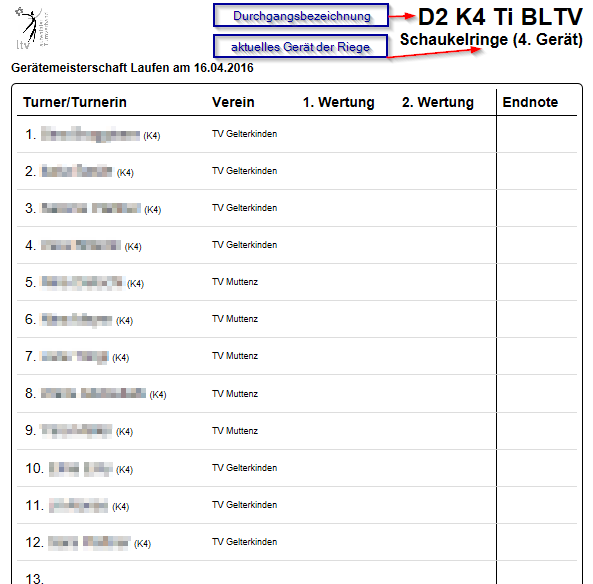
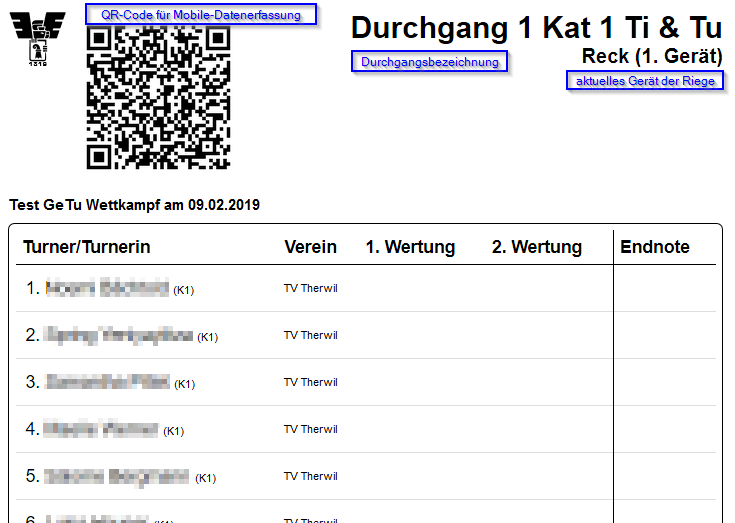
update descriptions and screenshots for the adapted network-features

diff --git a/wettkampf-durchfuhrung/wettkampf-netzwerk.md b/wettkampf-durchfuhrung/wettkampf-netzwerk.md
@@ -32,23 +32,22 @@ Gleichzeitig wird der Button `Verbindung stoppen` wählbar.
 Für eine schnelle Kontrolle dient der Status-Button oben rechts im Fenster. Mit der Status-Lampe wird mit `grün` eine aktive und mit `grau` eine nicht aktive Verbindung angezeigt. Die Verbindung kann auch über diesen Status-Button ein- und ausgeschaltet werden.<br>
 
 3. Weitere Interessierte können sich mit der Funktion `Wettkampf herunterladen` den kompletten Wettkampf über das Netzwerk herunterladen:<br>![](/assets/download-competitions.png)<br> ![](/assets/list-download-competitions.png)<br>
-Nachdem ein Wettkampf heruntergeladen wurde, kann zwar lokal alles mit dem Wettkampf gemacht werden. Allerdings kann man sich nicht zu dem Wettkampf im Netzwerk verbinden und es können auch keine Daten mit dem Wettkampf im Netzwerk synchronisiert werden. Hierzu muss zunächst die volle Kontrolle über den Wettkampf erlangt werden.<br>
-Es gibt zwei mögliche Verfahren, um die volle Kontrolle über den Wettkampf von einem Gerät auf das Andere zu übertragen:
-    * Vom Gerät, auf dem der Wettkampf hochgeladen wurde, muss der Wettkampf wie bisher via `Import-`/`Export`-Funktion als Zip-Datei auf das zusätzliche Gerät kopiert werden. Die Datei enthält den Sicherheits-Schlüssel für den Vollzugriff auf diesen Wettkampf:<br>
+Nachdem ein Wettkampf heruntergeladen wurde, können daran noch keine Änderungen gemacht werden. Man kann sich allerdings zu dem Wettkampf im Netzwerk verbinden und aktualisierte Resultate werden auf die lokale Kopie gemeldet. Um die volle Kontrolle über den Wettkampf von einem Gerät auf das Andere zu übertragen muss vom Gerät, auf dem der Wettkampf hochgeladen wurde, der Wettkampf wie bisher via `Import-`/`Export`-Funktion als Zip-Datei auf das zusätzliche Gerät kopiert werden. Die Datei enthält den Sicherheits-Schlüssel für den Vollzugriff auf diesen Wettkampf:<br>
     ![](/assets/competition-share-secret.png)<br> Diese Datei ist für den Benutzer **unsichtbar**. Mit diesem Vorgehen können mehrere Geräte die volle Kontrolle über den Wettkampf erlangen.
     * Nachdem der Wettkampf auf dem Ziel-Gerät heruntergeladen wurde, kann vom Gerät, wo er hochgeladen wurde der Wettkampf im Netzwerk entfernt werden (siehe [Wettkampf im Netzwerk entfernen](#wettkampfnetzwerk-entfernen)). Daraufhin kann der Wettkampf vom Ziel-Gerät frisch in's Netzwerk hochgeladen werden. Die Kontrolle des Wettkampfs liegt immer bei dem Gerät, von wo aus ein Wettkampf hochgeladen wurde. Mit diesem Verfahren liegt die volle Kontrolle über den Wettkampf immer nur bei einem Gerät.
 4. Solange eine aktive Verbindung besteht, werden die Resultate über den zentralen Server mit allen anderen an diesem Wettkampf verbundenen Stationen synchronisiert. So ist es denn auch möglich, mit mehr als einer Station im Rechnungsbüro zu arbeiten, um so die Ausfallsicherheit zu erhöhen.
 
-### Pro Gerät und Durchgang einen QR-Code für die Einstellung im Mobile-Device der Wertungsrichter erstellen {#qrcode-printouts}
+### Riegenblätter mit QR-Code für Direkteinstieg in die Erfassungs-Maske der Mobile-App drucken {#qrcode-printouts}
 
-Bevor der Wettkampf beginnt, sollten pro Gerät eine Liste der QR-Codes erstellt werden, die die Konfiguration des Mobile-Devices der Wertungsrichter sicherstellt.
+![](/assets/print-riegenblaetter.png)
 
-![](/assets/prepare-station-qrcodes.png)
+**Generiertes Riegennotenblatt:**
 
-![](/assets/station-initialization-qrcode.png)
+![](/assets/riegenblaetter.png)
 
-Diese QR-Codes sind lediglich für einen sicheren Einstieg zu den relevanten Wertungs-Eingabemasken gedacht und stellen kein Sicherheitselement bezüglich Zugriffsberechtigung dar. Sie können deshalb problemlos auf dem Wettkampf-Platz offen auf den Tischen der Wertungsrichter aufgelegt werden. Auch ein Versand per EMail an die Wertungsrichter wäre unproblematisch.
+**Achtung** Der auf den Riegenblätter gedruckte QR-Code enthält den Link auf den `zentralen Server` und funktioniert nicht mit dem anderen Netzwerk-Modus, wo der Server lokal betrieben wird.
 
+Diese QR-Codes sind lediglich für einen sicheren Einstieg zu den relevanten Wertungs-Eingabemasken gedacht und stellen kein Sicherheitselement bezüglich Zugriffsberechtigung dar. Sie können deshalb problemlos auf dem Wettkampf-Platz offen auf den Tischen der Wertungsrichter aufgelegt werden.
 
 ### Mobile App Connections ...
 
@@ -74,11 +73,11 @@ Siehe ![Aktuelle Wettkampf Resultate anzeigen](#letzteResultate)
 Dieser QR-Code führt mit einem Link auf die Anzeige der aktuell erfassten Top-Resultaten.
 Siehe ![Letzte Top Resultate anzeigen](#topResultate)
 
-### Wertungsrichter initialisiert sein Mobile-Device an seiner Station mit QR-Code
+### Wertungsrichter initialisiert sein Mobile-Device an seiner Station mit dem [QR-Code vom Riegenblatt](#qrcode-printouts)
 
-Bei jedem Gerät sollen die [QR-Codes ausgedruckt vorliegen](#qrcode-printouts), die an dem Gerät pro Durchgang verwendet werden sollen. Mit dem Scan des jeweiligen QR-Codes kann eine URL im Browser des Mobile-Devices geöffnet werden. Dort wird die Erfassungs-App genau an der Stelle gestartet, wo der Wertungsrichter die Resultate erfassen soll (beim richtigen Wettkampf, beim richtigen Gerät und beim richtigen Durchgang).
+Auf den Riegenblätter zur manuellen Resultaterfassung, befindet sich jeweils ein QR-Code, mit welchem die Mobile-App direkt am richtigen Ort gestartet werden kann. Zu Beginn kann es sein, dass die Resultaterfassung noch gesperrt ist. Diese wird durch die Wettkampfleitung im Rechnungsbüro freigegeben.
 
-![](/assets/resultcatcher-initialized.png)
+![](/assets/resultaterfassen-gesperrt.png)
 
 ### Freischalten eines Durchganges für die Resultat-Erfassung über das Netzwerk
 
@@ -92,7 +91,25 @@ In der Ansicht wird dann die Startzeit eingetragen und die Resultat-Erfassung ü
 
 ![](/assets/resultcatcher-running.png)
 
-Wenn alle Resultate einer Riege an einem Gerät erfasst sind, soll die Resultaterfassung für diese Riege an diesem Gerät abgeschlossen werden. Dies wird mittels `Eingabe abschliessen` gemacht und bewirkt zusätzlich, dass die nächste Riege für die Resultaterfassung geladen wird.
+### Wertungsrichter erfasst Wettkampf-Resultate
+
+Mit dem Button `RESULTATE` gelangt man in der Mobile-App zu den Turner/-Innen, die in der Reihenfolge aufgelistet werden, in der sie ihre Wettkampf-Übung vorturnen sollen.
+
+<table><tr><td  valign="top"> 
+Mit einem Click auf die Person öffnet sich die Noten-Eingabemaske.<br>
+<br>
+</td><td valign="top"><img src="../assets/resultaterfassen-gestartet2.png"> </td></tr>
+<tr><td valign="top"><p>
+Bei Kunstturn-Wettkämpfen kann hier auch eine D-Note erfasst werden.</p><p>
+Mit einem Click auf die E-Note (1) kann die entsprechene Ausführungs-Note (E wie Execution) erfasst/korrigiert werden.</p><p>
+Die Endnote wird beim `Speichern` oder beim `Speichern & Weiter` (2) vom Programm berechnet und aktualisiert, wenn die Aktion erfolgreich ausgeführt werden kann. Wenn z.B. die Berechtigung für die Resultat-Erfassung abgelaufen ist oder der Durchgang gerade gesperrt ist, können keine Resultate erfasst/korrigiert werden. Bei Athletiktests gibt es verschiedene Multiplikationsfaktoren, die mit der E-Note multipliziert die Endnote ausmachen. Bei Kunstturn-Wettkämpfen wird die D-Note und die E-Note zusammengezählt.</p><p>
+<em>Achtung</em> Wenn die Nummer-Eingabetastatur, die für die Eingabe der Wertung eingeblendet wird, die Buttons überdeckt, muss für dessen Betätigung der Bildschirm nach oben gescrollt werden, so dass die Buttons wieder sichtbar werden.
+</td><td><img src="../assets/resultcatcher-wertung-erfassen.png"></td></tr>
+</table>
+
+Wenn alle Resultate einer Riege an einem Gerät erfasst sind, soll die Resultaterfassung für diese Riege an diesem Gerät abgeschlossen werden. Dies wird mittels `Eingaben abschliessen` gemacht und bewirkt zusätzlich, dass die nächste Riege für die Resultaterfassung geladen wird.
+
+### Durchgang abschliessen
 
 Wenn alle Resultate eines Durchganges erfasst sind, soll der `Durchgang abgeschlossen` werden, worauf keine weiteren Resultate via Mobile-Devices mehr engegengenommen werden.
 
@@ -103,18 +120,6 @@ Wenn alle Resultate eines Durchganges erfasst sind, soll der `Durchgang abgeschl
 ![](/assets/resultaterfassen-gesperrt.png)
 
 Die Aktionen zum starten und beenden sind als Popup-Menu Funtkionen auf dem jeweiligen Durchgang zugänglich und sind nur dann wählbar, wenn der Netzwerk-Modus eingeschaltet ist.
-
-### Wertungsrichter erfasst Wettkampf-Resultate
-
-Mit dem Button `RESULTATE` gelangt man in der Mobile-App zu den Turner/-Innen, die in der Reihenfolge aufgelistet werden, in der sie ihre Wettkampf-Übung vorturnen sollen.
-
-1. Mit einem Click auf die Person öffnet sich die Noten-Eingabemaske.
-2. Mit einem Click auf die D-Note kann die entsprechene Schwierigkeits-Note (D wie Difficulty) erfasst/korrigiert werden. Diese Note wird nur bei Kunstturn-Wettkämpfen verwendet. Beim Geräteturnen wird nur die E-Note erfasst.
-3. Mit einem Click auf die E-Note kann die entsprechene Ausführungs-Note (E wie Execution) erfasst/korrigiert werden.
-4. Die Endnote wird vom Programm berechnet und aktualisiert, wenn die `Save`-Aktion erfolgreich ausgeführt werden kann. Wenn z.B. die Berechtigung für die Resultat-Erfassung abgelaufen ist oder der Durchgang gerade gesperrt ist, können keine Resultate erfasst/korrigiert werden. Bei Athletiktests gibt es verschiedene Multiplikationsfaktoren, die mit der E-Note multipliziert die Endnote ausmachen. Bei Kunstturn-Wettkämpfen wird die D-Note und die E-Note zusammengezählt.
-
-![](/assets/resultcatcher-results.png)
-
 
 ### Aktuelle Wettkampf Resultate anzeigen {#letzteResultate}
 

diff --git a/wettkampf-durchfuhrung/wettkampf-netzwerk-lokal.md b/wettkampf-durchfuhrung/wettkampf-netzwerk-lokal.md
@@ -33,19 +33,21 @@ Für den Betrieb über das Netzwerk sind folgende Sicherheitsmassnahmen getroffe
 Bei diesem Arbeitsschritt, wird nach erfolgreichem bereitstellen eine Erfolgsmeldung angezeigt:<br>![](/assets/connect-and-share.png)<br>
 Gleichzeitig wird der Button `Verbindung stoppen` wählbar.
 Für eine schnelle Kontrolle dient der Status-Button oben rechts im Fenster. Mit der Status-Lampe wird mit `grün` eine aktive und mit `grau` eine nicht aktive Verbindung angezeigt. Die Verbindung kann auch über diesen Status-Button ein- und ausgeschaltet werden.<br>
-3. Solange eine aktive Verbindung besteht, werden die Resultate über den zentralen Server mit allen anderen an diesem Wettkampf verbundenen Stationen synchronisiert. Im Gegensatz zur Verbindung über das Internet ist es nicht möglich, mit mehr als einer Station im Rechnungsbüro zu arbeiten.
+3. Solange eine aktive Verbindung besteht, werden die Resultate über den lokalen Server mit allen anderen an diesem Wettkampf verbundenen Stationen synchronisiert. Im Gegensatz zur Verbindung über das Internet ist es nicht möglich, mit mehr als einer Station im Rechnungsbüro zu arbeiten.
 4. Mittels `Stop local Server` im Netzwerk-Menu wir der Server im lokalen Netzwer wieder gestoppt.<br>![](/assets/stop-local-server.png)<br>Sobald der Server gestoppt ist, wird die Adresse im blauen Anzeigefeld oben rechts auf `kutuapp.sharevic.net` umgestellt.<br>![](/assets/display-remote-server-offline.png)<br>
 Diese Adresse wird verwendet, wenn der Netzwerkmodus über das Internet betrieben wird.
 
-### Pro Gerät und Durchgang einen QR-Code für die Einstellung im Mobile-Device der Wertungsrichter erstellen {#qrcode-printouts}
+### Riegenblätter mit QR-Code für Direkteinstieg in die Erfassungs-Maske der Mobile-App drucken {#qrcode-printouts}
 
-Bevor der Wettkampf beginnt, sollten pro Gerät eine Liste der QR-Codes erstellt werden, die die Konfiguration des Mobile-Devices der Wertungsrichter sicherstellt.
+![](/assets/print-riegenblaetter.png)
 
-![](/assets/prepare-station-qrcodes.png)
+**Generiertes Riegennotenblatt:**
 
-![](/assets/station-initialization-qrcode.png)
+![](/assets/riegenblaetter.png)
 
-Diese QR-Codes sind lediglich für einen sicheren Einstieg zu den relevanten Wertungs-Eingabemasken gedacht und stellen kein Sicherheitselement bezüglich Zugriffsberechtigung dar. Sie können deshalb problemlos auf dem Wettkampf-Platz offen auf den Tischen der Wertungsrichter aufgelegt werden. Auch ein Versand per EMail an die Wertungsrichter wäre unproblematisch.
+**Achtung** Der auf den Riegenblätter gedruckte QR-Code enthält den Link auf den `lokalen Server` und funktioniert nicht im anderen Netzwerk-Modus, wo der Server nicht lokal betrieben wird.
+
+Diese QR-Codes sind lediglich für einen sicheren Einstieg zu den relevanten Wertungs-Eingabemasken gedacht und stellen kein Sicherheitselement bezüglich Zugriffsberechtigung dar. Sie können deshalb problemlos auf dem Wettkampf-Platz offen auf den Tischen der Wertungsrichter aufgelegt werden.
 
 ### Mobile App Connections ...
 
@@ -72,11 +74,11 @@ Siehe ![Aktuelle Wettkampf Resultate anzeigen](#letzteResultate)
 Dieser QR-Code führt mit einem Link auf die Anzeige der aktuell erfassten Top-Resultaten.
 Siehe ![Letzte Top Resultate anzeigen](#topResultate)
 
-### Wertungsrichter initialisiert sein Mobile-Device an seiner Station mit QR-Code
+### Wertungsrichter initialisiert sein Mobile-Device an seiner Station mit dem [QR-Code vom Riegenblatt](#qrcode-printouts)
 
-Bei jedem Gerät sollen die [QR-Codes ausgedruckt vorliegen](#qrcode-printouts), die an dem Gerät pro Durchgang verwendet werden sollen. Mit dem Scan des jeweiligen QR-Codes kann eine URL im Browser des Mobile-Devices geöffnet werden. Dort wird die Erfassungs-App genau an der Stelle gestartet, wo der Wertungsrichter die Resultate erfassen soll (beim richtigen Wettkampf, beim richtigen Gerät und beim richtigen Durchgang).
+Auf den Riegenblätter zur manuellen Resultaterfassung, befindet sich jeweils ein QR-Code, mit welchem die Mobile-App direkt am richtigen Ort gestartet werden kann. Zu Beginn kann es sein, dass die Resultaterfassung noch gesperrt ist. Diese wird durch die Wettkampfleitung im Rechnungsbüro freigegeben.
 
-![](/assets/resultcatcher-initialized.png)
+![](/assets/resultaterfassen-gesperrt.png)
 
 ### Freischalten eines Durchganges für die Resultat-Erfassung über das Netzwerk
 
@@ -90,7 +92,25 @@ In der Ansicht wird dann die Startzeit eingetragen und die Resultat-Erfassung ü
 
 ![](/assets/resultcatcher-running.png)
 
-Wenn alle Resultate einer Riege an einem Gerät erfasst sind, soll die Resultaterfassung für diese Riege an diesem Gerät abgeschlossen werden. Dies wird mittels `Eingabe abschliessen` gemacht und bewirkt zusätzlich, dass die nächste Riege für die Resultaterfassung geladen wird.
+### Wertungsrichter erfasst Wettkampf-Resultate
+
+Mit dem Button `RESULTATE` gelangt man in der Mobile-App zu den Turner/-Innen, die in der Reihenfolge aufgelistet werden, in der sie ihre Wettkampf-Übung vorturnen sollen.
+
+<table><tr><td  valign="top"> 
+Mit einem Click auf die Person öffnet sich die Noten-Eingabemaske.<br>
+<br>
+</td><td valign="top"><img src="../assets/resultaterfassen-gestartet2.png"> </td></tr>
+<tr><td valign="top"><p>
+Bei Kunstturn-Wettkämpfen kann hier auch eine D-Note erfasst werden.</p><p>
+Mit einem Click auf die E-Note (1) kann die entsprechene Ausführungs-Note (E wie Execution) erfasst/korrigiert werden.</p><p>
+Die Endnote wird beim `Speichern` oder beim `Speichern & Weiter` (2) vom Programm berechnet und aktualisiert, wenn die Aktion erfolgreich ausgeführt werden kann. Wenn z.B. die Berechtigung für die Resultat-Erfassung abgelaufen ist oder der Durchgang gerade gesperrt ist, können keine Resultate erfasst/korrigiert werden. Bei Athletiktests gibt es verschiedene Multiplikationsfaktoren, die mit der E-Note multipliziert die Endnote ausmachen. Bei Kunstturn-Wettkämpfen wird die D-Note und die E-Note zusammengezählt.</p><p>
+<em>Achtung</em> Wenn die Nummer-Eingabetastatur, die für die Eingabe der Wertung eingeblendet wird, die Buttons überdeckt, muss für dessen Betätigung der Bildschirm nach oben gescrollt werden, so dass die Buttons wieder sichtbar werden.
+</td><td><img src="../assets/resultcatcher-wertung-erfassen.png"></td></tr>
+</table>
+
+Wenn alle Resultate einer Riege an einem Gerät erfasst sind, soll die Resultaterfassung für diese Riege an diesem Gerät abgeschlossen werden. Dies wird mittels `Eingaben abschliessen` gemacht und bewirkt zusätzlich, dass die nächste Riege für die Resultaterfassung geladen wird.
+
+### Durchgang abschliessen
 
 Wenn alle Resultate eines Durchganges erfasst sind, soll der `Durchgang abgeschlossen` werden, worauf keine weiteren Resultate via Mobile-Devices mehr engegengenommen werden.
 
@@ -101,18 +121,6 @@ Wenn alle Resultate eines Durchganges erfasst sind, soll der `Durchgang abgeschl
 ![](/assets/resultaterfassen-gesperrt.png)
 
 Die Aktionen zum starten und beenden sind als Popup-Menu Funtkionen auf dem jeweiligen Durchgang zugänglich und sind nur dann wählbar, wenn der Netzwerk-Modus eingeschaltet ist.
-
-### Wertungsrichter erfasst Wettkampf-Resultate
-
-Mit dem Button `RESULTATE` gelangt man in der Mobile-App zu den Turner/-Innen, die in der Reihenfolge aufgelistet werden, in der sie ihre Wettkampf-Übung vorturnen sollen.
-
-1. Mit einem Click auf die Person öffnet sich die Noten-Eingabemaske.
-2. Mit einem Click auf die D-Note kann die entsprechene Schwierigkeits-Note (D wie Difficulty) erfasst/korrigiert werden. Diese Note wird nur bei Kunstturn-Wettkämpfen verwendet. Beim Geräteturnen wird nur die E-Note erfasst.
-3. Mit einem Click auf die E-Note kann die entsprechene Ausführungs-Note (E wie Execution) erfasst/korrigiert werden.
-4. Die Endnote wird vom Programm berechnet und aktualisiert, wenn die `Save`-Aktion erfolgreich ausgeführt werden kann. Wenn z.B. die Berechtigung für die Resultat-Erfassung abgelaufen ist oder der Durchgang gerade gesperrt ist, können keine Resultate erfasst/korrigiert werden. Bei Athletiktests gibt es verschiedene Multiplikationsfaktoren, die mit der E-Note multipliziert die Endnote ausmachen. Bei Kunstturn-Wettkämpfen wird die D-Note und die E-Note zusammengezählt.
-
-![](/assets/resultcatcher-results.png)
-
 
 ### Aktuelle Wettkampf Resultate anzeigen {#letzteResultate}
 
